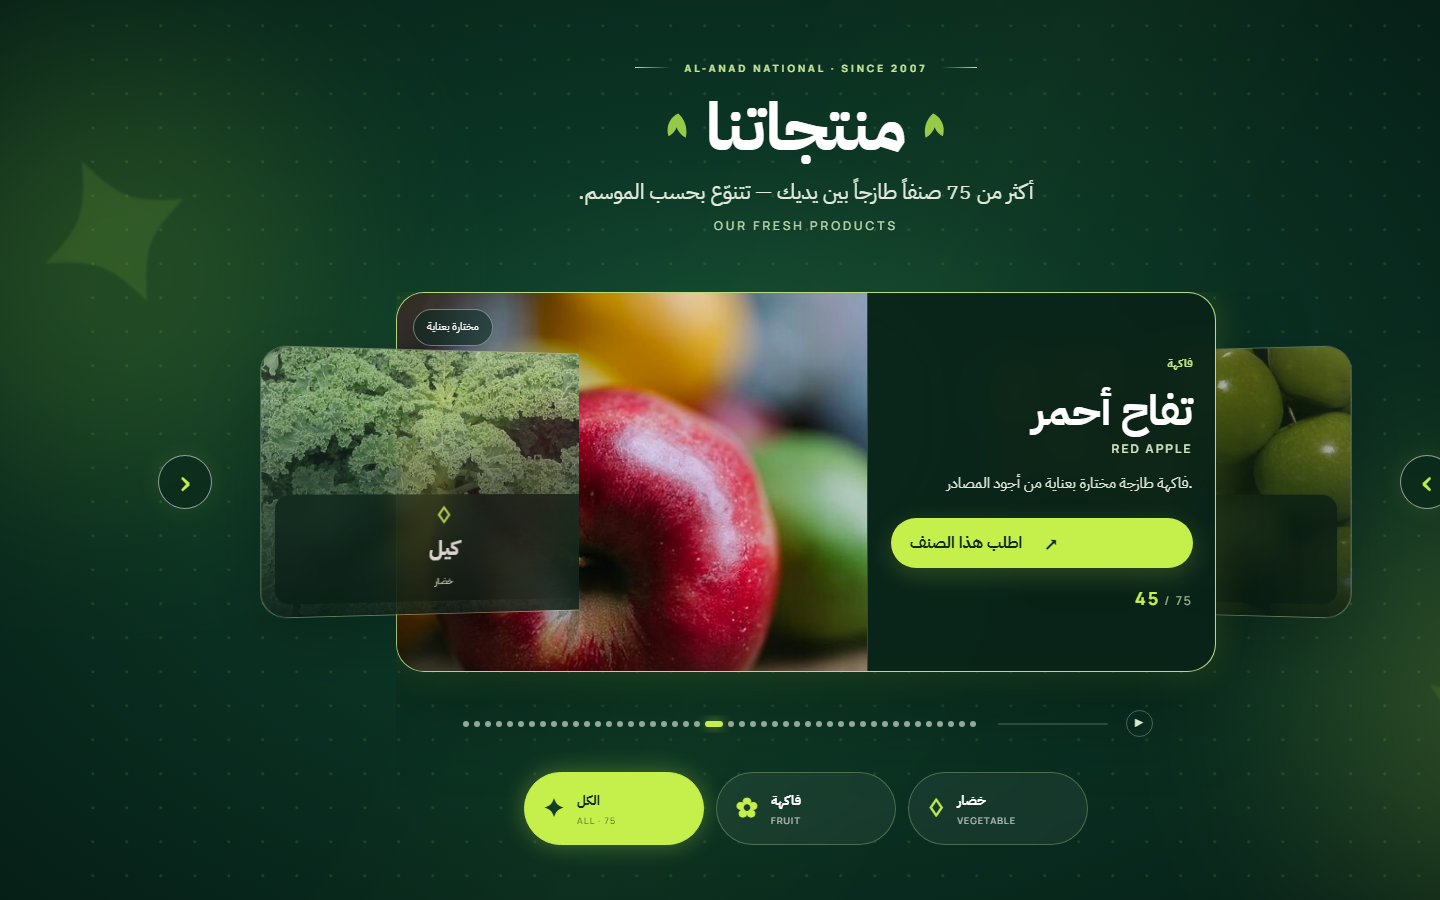
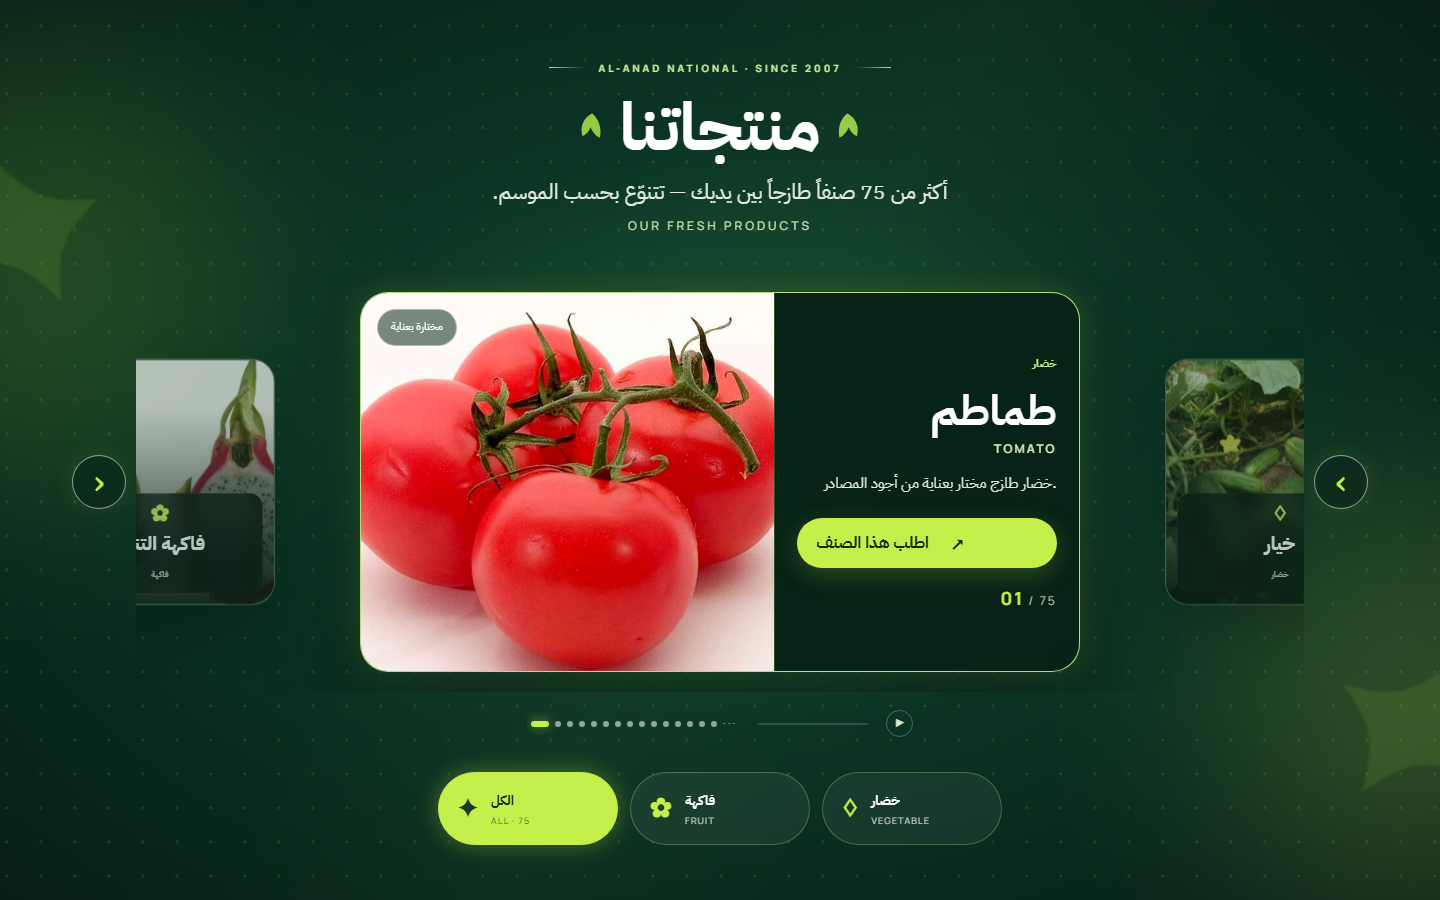
fix: balance peeks, hide dots scrollbar, keep copy above peeks
Flatten 3D stacking so side cards cannot cover active glass copy. Center active card with equal peeks, window dots to remove white scrollbar, raise active z-index. Verified programmatically.

diff --git a/src/effects/produce-slider/styles.css b/src/effects/produce-slider/styles.css
@@ -145,12 +145,16 @@
   z-index: 2;
   max-width: 1440px;
   margin: 0 auto;
+  padding-inline: clamp(2.5rem, 5vw, 4rem);
 }
 #products .slider-stage {
   height: 420px;
   position: relative;
-  perspective: 1400px;
-  transform-style: preserve-3d;
+  /* Flat stacking — preserve-3d + rotateY let side cards paint over active copy */
+  perspective: none;
+  transform-style: flat;
+  overflow: hidden;
+  isolation: isolate;
 }
 
 #products .slide {
@@ -168,8 +172,10 @@
     transform 0.85s cubic-bezier(0.2, 0.75, 0.2, 1),
     opacity 0.65s,
     width 0.85s,
-    filter 0.85s;
-  transform-style: preserve-3d;
+    filter 0.85s,
+    left 0.85s,
+    right 0.85s;
+  transform-style: flat;
 }
 #products .slide-photo {
   position: absolute;
@@ -207,10 +213,11 @@
    direction:ltr locks column geometry so RTL page dir cannot mirror them. */
 #products .active-slide {
   left: 50%;
-  width: min(820px, 74vw);
+  width: min(720px, 58vw);
   height: 380px;
-  transform: translate(-50%, -50%) rotateY(0) scale(1);
-  z-index: 3;
+  transform: translate(-50%, -50%) scale(1);
+  z-index: 20; /* always above peek cards */
+  isolation: isolate;
   display: grid;
   direction: ltr;
   grid-template-columns: 1.15fr 0.85fr;
@@ -254,7 +261,7 @@ html[dir='ltr'] #products .active-slide {
 #products .active-copy {
   grid-area: copy;
   position: relative;
-  z-index: 2;
+  z-index: 30; /* never under peek photos */
   left: auto;
   right: auto;
   top: auto;
@@ -268,11 +275,12 @@ html[dir='ltr'] #products .active-slide {
   padding: 1.35rem 1.4rem;
   margin: 0;
   border-radius: 0;
-  background: rgba(6, 32, 22, 0.92);
+  background: rgba(6, 32, 22, 0.96);
   backdrop-filter: blur(16px) saturate(1.1);
   -webkit-backdrop-filter: blur(16px) saturate(1.1);
   border-inline-start: 1px solid rgba(197, 239, 75, 0.22);
   box-sizing: border-box;
+  pointer-events: auto;
 }
 html[dir='rtl'] #products .active-copy {
   left: auto;
@@ -375,10 +383,12 @@ html[dir='ltr'] #products .active-copy {
 }
 
 #products .side-slide {
-  width: min(390px, 34vw);
+  width: min(280px, 24vw);
   height: 300px;
-  opacity: 0.8;
+  opacity: 0.72;
   filter: saturate(0.85);
+  z-index: 1;
+  pointer-events: none; /* peeks never steal hits from active CTA */
 }
 #products .side-slide .slide-photo {
   z-index: 0;
@@ -471,13 +481,18 @@ html[dir='ltr'] #products .active-copy {
 #products .pagination {
   display: flex;
   align-items: center;
-  gap: 5px;
-  max-width: min(520px, 55vw);
-  overflow-x: auto;
-  overflow-y: hidden;
+  justify-content: center;
+  gap: 6px;
+  max-width: min(420px, 55vw);
+  overflow: hidden; /* no scrollbar — windowed dots */
   padding: 6px 4px;
-  scroll-behavior: smooth;
-  scrollbar-width: thin;
+}
+#products .pagination-more {
+  color: rgba(197, 239, 75, 0.55);
+  font-size: 11px;
+  line-height: 1;
+  letter-spacing: 1px;
+  user-select: none;
 }
 #products .pagination button {
   flex: 0 0 auto;
@@ -496,11 +511,13 @@ html[dir='ltr'] #products .active-copy {
   box-shadow: 0 0 12px rgba(197, 239, 75, 0.55);
 }
 #products .progress-track {
+  flex: 0 0 auto;
   width: 110px;
   height: 2px;
   background: rgba(255, 255, 255, 0.15);
   border-radius: 5px;
   overflow: hidden;
+  align-self: center;
 }
 #products .progress-bar {
   display: block;
@@ -582,15 +599,17 @@ html[dir='ltr'] #products .active-copy {
 }
 
 @media (min-width: 900px) {
+  /* Peeks sit fully outside the active card box (no geom cover of copy) */
   #products .side-slide[data-slot='0'] {
-    left: 7%;
-    transform: translateY(-50%) rotateY(17deg) scale(0.88);
+    left: 50%;
+    right: auto;
+    transform: translate(calc(-50% - min(560px, 48vw)), -50%) scale(0.82);
     z-index: 1;
   }
   #products .side-slide[data-slot='2'] {
-    right: 7%;
-    left: auto;
-    transform: translateY(-50%) rotateY(-17deg) scale(0.88);
+    left: 50%;
+    right: auto;
+    transform: translate(calc(-50% + min(560px, 48vw)), -50%) scale(0.82);
     z-index: 1;
   }
 }

diff --git a/src/effects/produce-slider/mount.js b/src/effects/produce-slider/mount.js
@@ -46,10 +46,28 @@ export function mountProduceSlider(section, opts = {}) {
     return cat === 'fruit' ? 'فاكهة' : 'خضار';
   }
 
+  /** Windowed dots — avoids a 75-wide strip that forces a white scrollbar. */
+  const DOT_WINDOW = 15;
+
   function rebuildDots() {
     if (!pagination) return;
     pagination.innerHTML = '';
-    data.forEach((item, i) => {
+    if (!data.length) return;
+
+    let start = Math.max(0, index - Math.floor(DOT_WINDOW / 2));
+    let end = Math.min(data.length, start + DOT_WINDOW);
+    start = Math.max(0, end - DOT_WINDOW);
+
+    if (start > 0) {
+      const more = document.createElement('span');
+      more.className = 'pagination-more';
+      more.setAttribute('aria-hidden', 'true');
+      more.textContent = '···';
+      pagination.appendChild(more);
+    }
+
+    for (let i = start; i < end; i++) {
+      const item = data[i];
       const btn = document.createElement('button');
       btn.type = 'button';
       btn.dataset.go = String(i);
@@ -57,7 +75,15 @@ export function mountProduceSlider(section, opts = {}) {
       if (i === index) btn.classList.add('is-active');
       btn.addEventListener('click', () => goTo(i));
       pagination.appendChild(btn);
-    });
+    }
+
+    if (end < data.length) {
+      const more = document.createElement('span');
+      more.className = 'pagination-more';
+      more.setAttribute('aria-hidden', 'true');
+      more.textContent = '···';
+      pagination.appendChild(more);
+    }
   }
 
   function applyPhoto(el, item) {
@@ -146,12 +172,7 @@ export function mountProduceSlider(section, opts = {}) {
       if (rightType) rightType.textContent = data[rightIndex].cat === 'fruit' ? '✿' : '♢';
     }
 
-    pagination?.querySelectorAll('button').forEach((dot, i) => {
-      dot.classList.toggle('is-active', i === index);
-      if (i === index) {
-        dot.scrollIntoView({ block: 'nearest', inline: 'center', behavior: reduceMotion ? 'auto' : 'smooth' });
-      }
-    });
+    rebuildDots();
 
     filterNav?.querySelectorAll('button[data-filter]').forEach((btn) => {
       btn.classList.toggle('is-active', btn.dataset.filter === filter);
